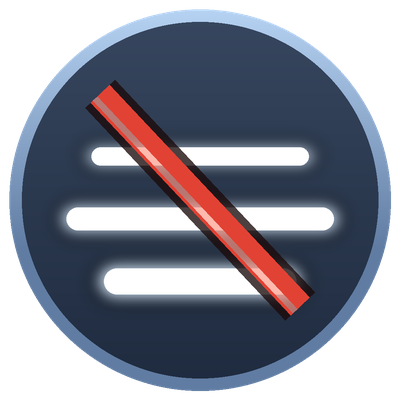
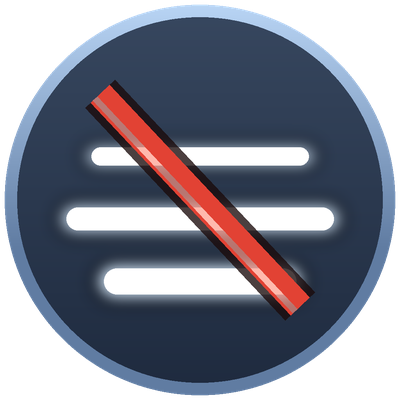
The button shows the state as a picture, not as a dimmed picture
Seen in the game, on the screenshot in the README, the button was a pale grey
smudge beside Blizzard's own saturated ones. Greying the icon out to mean "the
fog is on" took the red stroke -- the only part of the drawing that carries
any meaning -- and turned it into a third grey bar, so the control looked
disabled rather than ready.

There are two pictures now. Fog struck through when there is no fog, plain
fog, cooler and unstruck, when there is; both at full strength. The disc is
drawn wider so more of the circle is lit art, the icon sits at 20 pixels
rather than 19, and the dark plate behind it is gone -- the icon's own disc is
opaque, so all the plate did was darken the trimmed corners.

The test asks for the swap and asserts that neither state is dimmed, so that
nobody puts the dimming back; the archive check asks for both textures, since
the manifest names neither by a line anything else could check, and the second
one only appears when the fog is on -- the state a first look is least likely
to be in. It caught icon-fog.tga sitting untracked on the first build.

Two mutations in the harness beside the session notes had been pointing at
code that was rewritten: sed matched nothing, the test passed on untouched
source, and the run read as a hole in the test. The harness compares the file
before and after now and calls an unapplied mutation an error of its own.
Eleven mutations, all caught.

Changed region(s): [[0.0, 0.0, 0.99, 0.99]]

diff --git a/Tools/make_icon.py b/Tools/make_icon.py
@@ -38,7 +38,7 @@ S = BIG / 64.0   # everything below is in 64-pixel units, scaled up to draw
 def disc(size):
     """The dark round plate the rest sits on."""
     img = Image.new("RGBA", (size, size), (0, 0, 0, 0))
-    pad = 1.5 * S
+    pad = 0.8 * S
     grad = Image.new("RGBA", (size, size), (0, 0, 0, 0))
     gd = ImageDraw.Draw(grad)
     for y in range(size):
@@ -65,7 +65,7 @@ def disc(size):
     return Image.alpha_composite(img, ring)
 
 
-def fog(size):
+def fog(size, cold=False):
     """Three bands: a soft halo for body, a hard core so it survives shrinking."""
     halo = Image.new("RGBA", (size, size), (0, 0, 0, 0))
     hd = ImageDraw.Draw(halo)
@@ -76,13 +76,15 @@ def fog(size):
     ]
     for y, x0, x1, thickness, alpha in bands:
         hd.rounded_rectangle([x0, y - thickness / 2, x1, y + thickness / 2],
-                             radius=thickness / 2, fill=(206, 226, 246, alpha))
+                             radius=thickness / 2,
+                             fill=(150, 176, 206, alpha) if cold else (206, 226, 246, alpha))
     halo = halo.filter(ImageFilter.GaussianBlur(radius=1.3 * S))
     core = Image.new("RGBA", (size, size), (0, 0, 0, 0))
     cd = ImageDraw.Draw(core)
     for y, x0, x1, thickness, alpha in bands:
         cd.rounded_rectangle([x0 + 1.6 * S, y - thickness / 3.2, x1 - 1.6 * S, y + thickness / 3.2],
-                             radius=thickness / 3.2, fill=(255, 255, 255, 255))
+                             radius=thickness / 3.2,
+                             fill=(198, 214, 232, 255) if cold else (255, 255, 255, 255))
     return Image.alpha_composite(halo, core)
 
 
@@ -98,16 +100,30 @@ def slash(size):
     return layer
 
 
-def build(size):
+def build(size, struck=True):
+    """struck: the sign with the stroke through it -- the fog is gone.
+
+    Without it the same picture says the opposite: the fog is there. The
+    button swaps between the two, because greying one icon out to mean "off"
+    took the red stroke -- the only part that carries the meaning -- and turned
+    it into another grey bar. Seen in the game at twenty pixels, next to
+    Blizzard's own saturated buttons, it read as a disabled control.
+    """
     img = disc(size)
-    img = Image.alpha_composite(img, fog(size))
-    return Image.alpha_composite(img, slash(size))
+    img = Image.alpha_composite(img, fog(size, cold=not struck))
+    if struck:
+        img = Image.alpha_composite(img, slash(size))
+    return img
 
 
 def main():
     big = build(BIG)
     tga = big.resize((64, 64), Image.LANCZOS)
     tga.save(HERE / "icon.tga")
+
+    # The other state: fog, unstruck.
+    foggy = build(BIG, struck=False)
+    foggy.resize((64, 64), Image.LANCZOS).save(HERE / "icon-fog.tga")
 
     page = HERE / "curseforge"
     page.mkdir(exist_ok=True)
@@ -117,15 +133,18 @@ def main():
     if "--preview" in sys.argv:
         # The sizes it is actually seen at: the minimap icon is about 20.
         sizes = [64, 32, 20, 16]
-        strip = Image.new("RGBA", (sum(sizes) + 20 * len(sizes), 80), (70, 90, 60, 255))
+        strip = Image.new("RGBA", (2 * (sum(sizes) + 20 * len(sizes)), 80), (70, 90, 60, 255))
         x = 10
-        for s in sizes:
-            strip.paste(big.resize((s, s), Image.LANCZOS), (x, (80 - s) // 2), big.resize((s, s), Image.LANCZOS))
-            x += s + 20
+        for source in (big, foggy):
+            for s in sizes:
+                small = source.resize((s, s), Image.LANCZOS)
+                strip.paste(small, (x, (80 - s) // 2), small)
+                x += s + 20
+            x += 30
         strip.resize((strip.width * 3, strip.height * 3), Image.NEAREST).save(page / "preview-sizes.png")
         print("preview: %s" % (page / "preview-sizes.png"))
 
-    for p in (HERE / "icon.tga", page / "foreverfogbegone-400.png"):
+    for p in (HERE / "icon.tga", HERE / "icon-fog.tga", page / "foreverfogbegone-400.png"):
         print("%-44s %6.1f kB" % (p.relative_to(HERE), p.stat().st_size / 1024))
     head = (HERE / "icon.tga").read_bytes()[:18]
     print("TGA: type %d (2 = uncompressed truecolour), %d bits, %dx%d" % (

diff --git a/Tools/pack.py b/Tools/pack.py
@@ -95,11 +95,13 @@ def check(archive, expected=None):
             absent = [l for l in loads if l not in written]
             if absent:
                 problems.append("%s loads missing %s" % (toc.rsplit("/", 1)[-1], absent))
-        # The manifest points the client at a texture by path, and no manifest
-        # line names it, so nothing else here would notice it missing.
-        icon = "%s/icon.tga" % NAME
-        if icon not in written:
-            problems.append("no icon.tga -- the button would be a blank square")
+        # The manifest points the client at these by path and no manifest line
+        # names them, so nothing else here would notice one missing -- and the
+        # second only appears when the fog is on, which is the state a first
+        # look at the addon is least likely to be in.
+        for texture in ("icon.tga", "icon-fog.tga"):
+            if ("%s/" + texture) % NAME not in written:
+                problems.append("no " + texture + " -- the button would be a blank square")
         bad = z.testzip()
         if bad:
             problems.append("CRC failed at %s" % bad)
